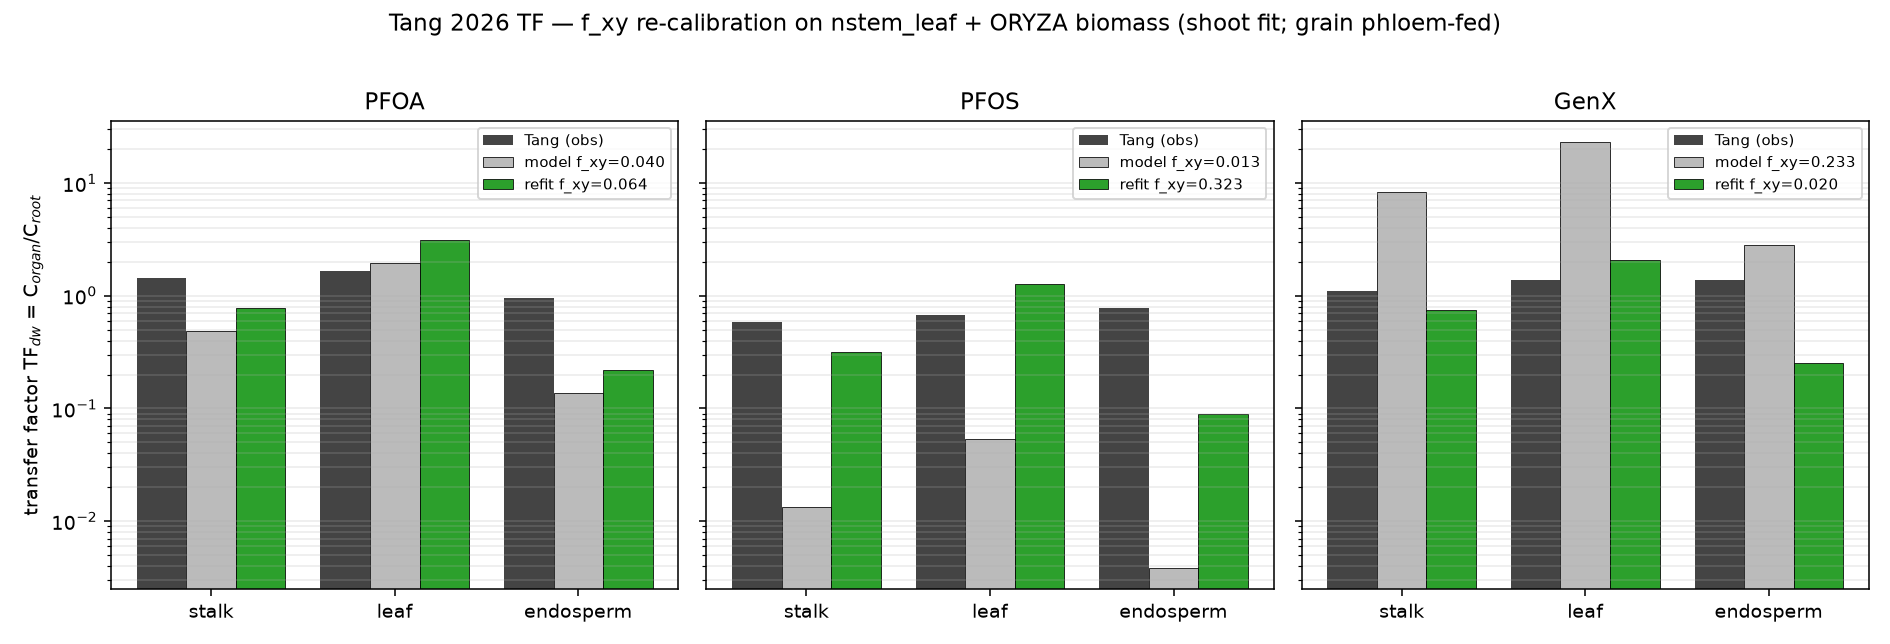
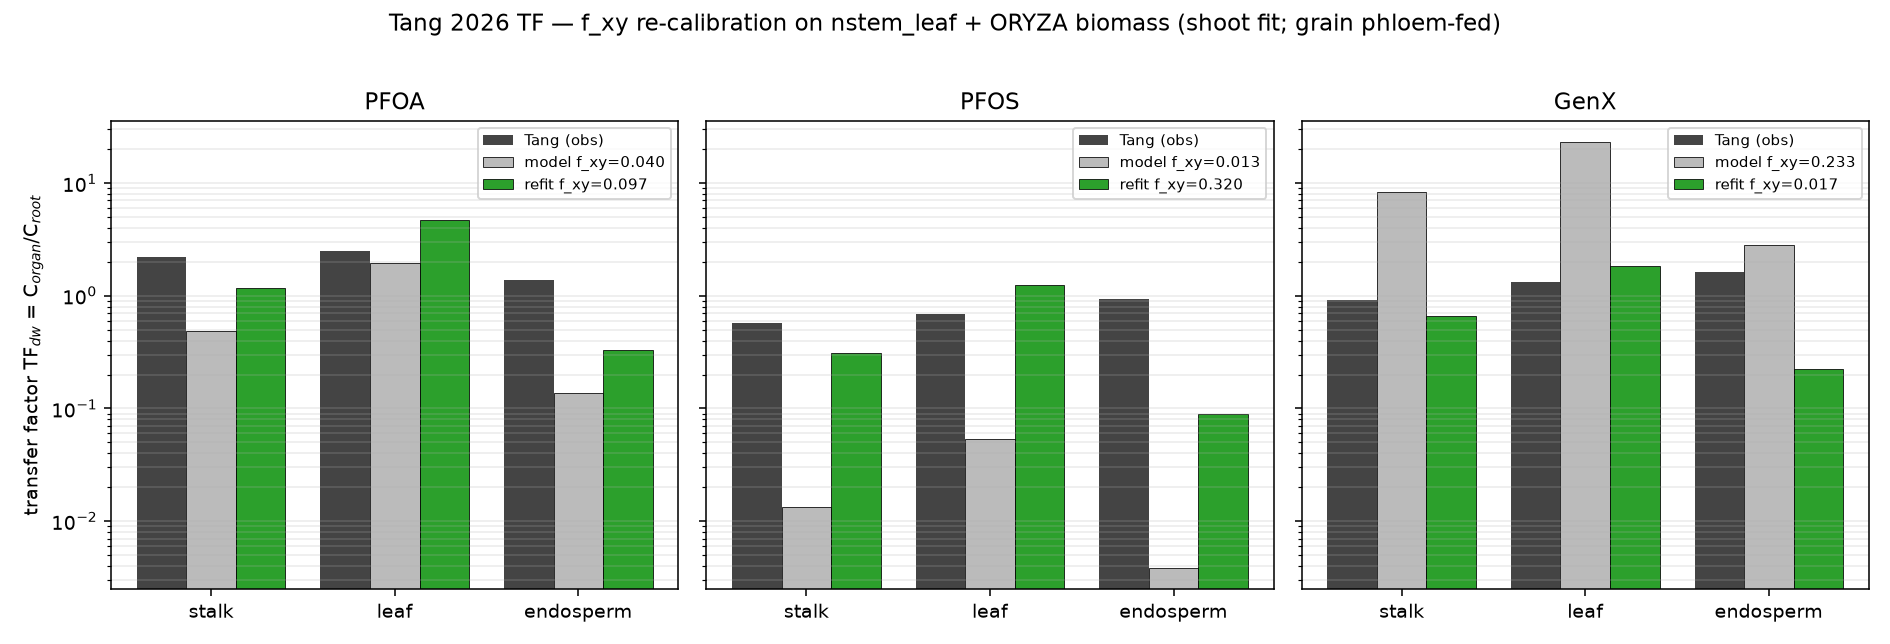
Reconcile Tang 2026 data + make the f_xy fit conditions explicit (reproducibility audit)
Audit follow-up after confirming data_obs/tang2026_{TF,BCF}.csv duplicated the
canonical docs/literature_db/raw_si/tang2026_doseresponse.csv (same SI S7/S8 numbers):
 - remove the duplicate data_obs/tang2026_{TF,BCF}.csv (drift risk);
 - move the genuinely-new tang2026_harvest_biomass.csv (Fig 1 digitization) into
   raw_si/ alongside the other Tang extractions; register all three Tang files in
   raw_si/README.md;
 - repoint validation/tang2026_fxy_{TF_validation,refit}.py at the canonical
   doseresponse.csv;
 - make the DOSE CONDITION explicit: the refit now reports the 0.1 ug/g (PRIMARY,
   environmentally-closest, least toxicity-confounded) fit AND the across-dose mean
   (sensitivity). PFOA f_xy is dose-sensitive (0.097 @user.1 vs 0.064 @user); PFOS/GenX
   are dose-flat. Overall RMSE 1.23->0.53 (@user.1).
 - cross-reference the pre-existing tang2026_validation.py / VALIDATION_TANG2026_NSTEM_KR.md
   so the new ORYZA-driven scripts read as extensions, not re-derivations.

No model/param changes; fitted f_xy stays OVERRIDE-only.

diff --git a/validation/tang2026_fxy_refit.py b/validation/tang2026_fxy_refit.py
@@ -6,12 +6,22 @@ Tang 2026 TF — f_xy re-calibration on the redistributed-shoot (nstem_leaf) mod
 Part A (refit) + Part B (ORYZA driver) of the Tang TF workstream.
 
 The 4-pool model mal-distributes the shoot (stem pass-through ~0, leaf-sink huge),
-so fitting f_xy to per-organ TF there is ill-posed (see tang2026_fxy_TF_validation).
-The redistributed-shoot model (`simulate_nstem_leaf`) restores a sensible stem~leaf
-split, so here we:
+so fitting f_xy to per-organ TF there is ill-posed (see tang2026_fxy_TF_validation
+and the documented finding in docs/VALIDATION_TANG2026_KR.md).  The redistributed-
+shoot model (`simulate_nstem_leaf`) restores a sensible stem~leaf split, so here we:
   (B) drive nstem_leaf with the MECHANISTIC ORYZA biomass (biomass_fn=ORYZA), and
-  (A) re-calibrate f_xy per congener to the MEASURED Tang TF (data_obs/tang2026_TF.csv),
-      holding the crop-architecture levers (stem_transp_frac/retention) and L_Ph fixed.
+  (A) re-calibrate f_xy per congener to the MEASURED Tang TF, holding the crop-
+      architecture levers (stem_transp_frac/retention) and L_Ph fixed.
+This EXTENDS docs/VALIDATION_TANG2026_NSTEM_KR.md (which already recalibrated f_xy to
+PFOS 0.142 / GenX 0.013 with growth_rice) by (i) the ORYZA biomass driver and (ii) an
+explicit 1-D fit + RMSE against the canonical data file.
+
+DATA: docs/literature_db/raw_si/tang2026_doseresponse.csv (SI S7/S8, all 5 doses).
+DOSE CONDITION (made explicit -- the point of this audit pass): Tang TF declines with
+dose (toxicity/saturation), while the linear model predicts one dose-independent TF.
+The PRIMARY fit uses the LOWEST dose 0.1 ug/g (environmentally closest, least toxicity-
+confounded -- the basis of the f_xy head-group offset in raw_si/tang2026_tf_bcf.csv);
+the across-dose MEAN is reported as a sensitivity.
 
 f_xy is fit (1-D, log-space) to the two f_xy-controlled shoot organs (stalk, leaf);
 grain/endosperm is phloem-fed (L_Ph) and only reported.  TF is dw-converted to match
@@ -56,12 +66,27 @@ def load_theta():
     return {k: tc[k]["theta_fw"] for k in tc}
 
 
-def load_tang_mean():
+TANG_DOSERESPONSE = os.path.join(ROOT, "docs", "literature_db", "raw_si", "tang2026_doseresponse.csv")
+_TF_ENDPOINT = {"TF_stalk": "stalk", "TF_leaf": "leaf", "TF_endosperm": "endosperm"}
+
+
+def load_tang_dose():
+    """-> dict[(congener, organ)] = {dose_ugg: TF} from the canonical SI extraction."""
     d = {}
-    with open(os.path.join(ROOT, "data_obs", "tang2026_TF.csv"), newline="") as f:
+    with open(TANG_DOSERESPONSE, newline="") as f:
         for r in csv.DictReader(x for x in f if not x.lstrip().startswith("#")):
-            d.setdefault((r["congener"], r["organ"]), []).append(float(r["TF_mean"]))
-    return {k: float(np.mean(v)) for k, v in d.items()}
+            org = _TF_ENDPOINT.get(r["endpoint"])
+            if org:
+                d.setdefault((r["compound"], org), {})[float(r["dose_ugg"])] = float(r["value"])
+    return d
+
+
+def tang_agg(dd, mode):
+    """Collapse the dose-response to one TF per (congener, organ).
+    mode 'low' -> 0.1 ug/g (primary, least toxicity-confounded); 'mean' -> across-dose mean."""
+    if mode == "low":
+        return {k: v[min(v)] for k, v in dd.items()}
+    return {k: float(np.mean(list(v.values()))) for k, v in dd.items()}
 
 
 def model_tf_dw(cong, theta, f_xy=None):
@@ -93,31 +118,40 @@ def rmse_all(cong, theta, tang, f_xy):
     return float(np.sqrt(np.mean(np.square(r)))), tf
 
 
-def main():
-    theta = load_theta()
-    tang = load_tang_mean()
-    cur = {c: api._CONG[c]["f_xy_recommended"] for c in CONGENERS}
-
-    print(f"{'cong':6}{'f_xy_cur':>10}{'f_xy_fit':>10}{'doc_recal':>11}"
-          f"{'RMSE_before':>13}{'RMSE_after':>12}")
-    fitted, before, after = {}, {}, {}
-    tf_before, tf_after = {}, {}
-    rb_all, ra_all = [], []
+def run_mode(theta, dd, mode):
+    tang = tang_agg(dd, mode)
+    res = {}
     for c in CONGENERS:
         fx = fit_fxy(c, theta, tang)
-        fitted[c] = fx
-        rb, tfb = rmse_all(c, theta, tang, cur[c])
+        rb, tfb = rmse_all(c, theta, tang, api._CONG[c]["f_xy_recommended"])
         ra, tfa = rmse_all(c, theta, tang, fx)
-        before[c], after[c], tf_before[c], tf_after[c] = rb, ra, tfb, tfa
-        rb_all.append(rb); ra_all.append(ra)
-        print(f"{c:6}{cur[c]:>10.4f}{fx:>10.4f}{DOC_RECAL.get(c, float('nan')):>11.4f}"
-              f"{rb:>13.2f}{ra:>12.2f}")
-    print(f"\noverall log10 RMSE  before={np.sqrt(np.mean(np.square(rb_all))):.2f}"
-          f"  ->  after={np.sqrt(np.mean(np.square(ra_all))):.2f}")
-    print("(f_xy fit to shoot stalk+leaf; grain/endosperm phloem-fed, reported not fit.")
-    print(" fitted f_xy is OVERRIDE-only; params/parameters.json unchanged.)")
+        res[c] = dict(fxy=fx, rb=rb, ra=ra, tfb=tfb, tfa=tfa)
+    return tang, res
 
-    _figure(theta, tang, cur, fitted, tf_before, tf_after)
+
+def main():
+    theta = load_theta()
+    dd = load_tang_dose()
+    cur = {c: api._CONG[c]["f_xy_recommended"] for c in CONGENERS}
+    results = {m: run_mode(theta, dd, m) for m in ("low", "mean")}
+
+    print(f"{'cong':6}{'f_xy_cur':>10}{'fit@0.1':>9}{'fit@mean':>10}{'doc_recal':>11}"
+          f"{'  RMSE@0.1 b->a':>16}")
+    for c in CONGENERS:
+        rl, rm = results["low"][1][c], results["mean"][1][c]
+        print(f"{c:6}{cur[c]:>10.4f}{rl['fxy']:>9.4f}{rm['fxy']:>10.4f}"
+              f"{DOC_RECAL.get(c, float('nan')):>11.4f}   {rl['rb']:>5.2f} -> {rl['ra']:<5.2f}")
+    for m in ("low", "mean"):
+        res = results[m][1]
+        rb = np.sqrt(np.mean([res[c]["rb"] ** 2 for c in CONGENERS]))
+        ra = np.sqrt(np.mean([res[c]["ra"] ** 2 for c in CONGENERS]))
+        print(f"  overall log10 RMSE @ dose={m:4}:  before {rb:.2f} -> after {ra:.2f}")
+    print("(PRIMARY = 0.1 ug/g dose; mean = sensitivity. f_xy fit to stalk+leaf;")
+    print(" grain phloem-fed (reported, not fit). OVERRIDE-only; parameters.json unchanged.)")
+
+    tang_low, res_low = results["low"]
+    _figure(theta, tang_low, cur, {c: res_low[c]["fxy"] for c in CONGENERS},
+            {c: res_low[c]["tfb"] for c in CONGENERS}, {c: res_low[c]["tfa"] for c in CONGENERS})
 
 
 def _figure(theta, tang, cur, fitted, tf_before, tf_after):

diff --git a/validation/tang2026_fxy_TF_validation.py b/validation/tang2026_fxy_TF_validation.py
@@ -5,9 +5,19 @@ Tang 2026 transfer-factor (TF) — out-of-sample f_xy validation
 
 Tests whether the model's root->shoot loading f_xy (the `f_xy_recommended` monotone
 TSCF + the PFSA exp(-1.1) / ether exp(-0.7) head-group offsets) reproduces the
-per-organ transfer factors MEASURED by Tang 2026 (JHM 502:141017, Table S8;
-archived in data_obs/tang2026_TF.csv).  Independent of the Yamazaki/Kim calibration
-that set f_xy, so this is a genuine out-of-sample check.
+per-organ transfer factors MEASURED by Tang 2026 (JHM 502:141017, Table S8).
+Reads the CANONICAL extraction docs/literature_db/raw_si/tang2026_doseresponse.csv
+(all 5 soil doses 0.1-100 ug/g). Independent of the Yamazaki/Kim calibration that
+set f_xy, so this is a genuine out-of-sample check.
+
+DOSE CONDITION: Tang TF decreases with dose (toxicity/saturation). Here we use the
+across-dose MEAN (matching validation/tang2026_validation.py); the f_xy head-group
+offset itself was derived from the lowest dose 0.1 ug/g (raw_si/tang2026_tf_bcf.csv,
+environmentally closest). NOTE this 4-pool check OVERLAPS validation/tang2026_validation.py
+and re-confirms its documented finding (stem pass-through under, leaf-sink over);
+the *new* contribution is the explicit f_xy verdict + the ORYZA biomass driver. The
+structural fix + f_xy re-calibration live in validation/tang2026_fxy_refit.py and
+docs/VALIDATION_TANG2026_NSTEM_KR.md.
 
 DRIVER: the mechanistic ORYZA2000 biomass M_s(t) (`oryza_growth.oryza_drivers`),
 NOT the logistic growth_rice -- the biomass driver changes the leaf TF ~2x
@@ -50,12 +60,19 @@ def load_theta():
     return {k: tc[k]["theta_fw"] for k in tc}
 
 
+TANG_DOSERESPONSE = os.path.join(ROOT, "docs", "literature_db", "raw_si", "tang2026_doseresponse.csv")
+_TF_ENDPOINT = {"TF_stalk": "stalk", "TF_leaf": "leaf", "TF_endosperm": "endosperm"}
+
+
 def load_tang_tf():
-    """-> dict[(congener, organ)] = {conc: mean}; plus helpers mean()/low()."""
+    """Canonical Tang TF (SI S8) from raw_si/tang2026_doseresponse.csv.
+    -> dict[(congener, organ)] = {dose_ugg: TF_mean}."""
     d = {}
-    with open(os.path.join(ROOT, "data_obs", "tang2026_TF.csv"), newline="") as f:
-        for r in (row for row in csv.DictReader(x for x in f if not x.lstrip().startswith("#"))):
-            d.setdefault((r["congener"], r["organ"]), {})[float(r["conc_ugg"])] = float(r["TF_mean"])
+    with open(TANG_DOSERESPONSE, newline="") as f:
+        for r in csv.DictReader(x for x in f if not x.lstrip().startswith("#")):
+            org = _TF_ENDPOINT.get(r["endpoint"])
+            if org:
+                d.setdefault((r["compound"], org), {})[float(r["dose_ugg"])] = float(r["value"])
     return d
 
 

diff --git a/docs/literature_db/raw_si/README.md b/docs/literature_db/raw_si/README.md
@@ -13,6 +13,9 @@ are kept here — the publisher PDFs/DOCX themselves are **not** committed
 | `zhou2025_bsa_ka.csv` | Zhou et al. 2025 (SI Table S4) | `10.1016/j.ecoenv.2025.117902` | **BSA** binding constant K_A [L/mol] and n (300 K), 6 PFAS — fluorescence quenching (a binding constant, not a partition coefficient) |
 | `kim2019_field_conc.csv` | Kim et al. 2019, STOTEN (Table 4) | `10.1016/j.scitotenv.2019.03.240` | per-congener field averages: pore (void) water [ng/L], paddy soil [ng/g dw], brown rice [ng/g], rice DF [%] |
 | `kim2019_grain_baf.csv` | derived from Kim 2019 | — | brown-rice (grain) **BAF** [L/kg], pore-water basis — `calibration.load_baf_csv`-ready |
+| `tang2026_doseresponse.csv` | Tang et al. 2026, JHM (SI **S7/S8**) | `10.1016/j.jhazmat.2025.141017` | per-organ **BCF** (rice/soil) + **TF** (stalk/leaf/chaff/endosperm vs root) at **all 5 soil doses** 0.1–100 µg/g; Nipponbare, flooded paddy, 150 d, harvest. Canonical Tang TF/BCF source (f_xy head-group + OOS TF). |
+| `tang2026_tf_bcf.csv` | derived from Tang 2026 (S7/S8) | `10.1016/j.jhazmat.2025.141017` | the **0.1 µg/g** (environmentally-closest, least toxicity-confounded) BCF/TF slice — the basis of the `f_xy` PFSA/ether head-group **offset**. |
+| `tang2026_harvest_biomass.csv` | Tang 2026, **Fig 1a/1b** (figure-digitized) | `10.1016/j.jhazmat.2025.141017` | harvest **whole-plant ~33.5 g FW** + **ear ~6.8 g FW** (control) → final-mass/HI anchor only. **No** per-organ biomass time series exists in Tang (cannot drive `M(t)`). |
 
 ## Notes / caveats
 - **K_MW units**: Chen and Droge both use the SSLM/TRANSIL method; their PFCA